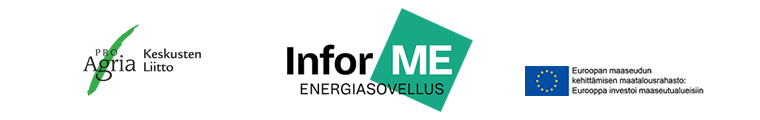
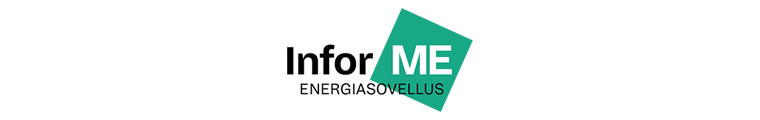
panu.poysti.011117.v1
ulkoasu, js siistiminen

Changed region(s): [[0.6658, 0.55, 0.9382, 0.8], [0.0908, 0.2, 0.2724, 0.8]]

diff --git a/index.html b/index.html
@@ -158,12 +158,10 @@
 					<h4 v-show="heatingovermaximum" class="heatingmaxwarning">Lämmön kulutus saa olla korkeintaan {{ heatingmaximum }} kW, vähennä valittuja kohteita!</h4>		
 					<!-- calculate-button -->
 					<div class="row" style="margin-top: 20px; margin-bottom: 25px;">
-						<div class="col-md-4"></div>
-						<div class="col-md-3">
+						<div class="col-md-12">
 							<button type="button" class="btn btn-primary calculatebtn" id="calcbtn" v-on:click="calculate" data-toggle="collapse"
 							data-target="#resulttab" data-parent="#container">Laske</button>
 						</div>
-						<div class="col-md-5"></div>
 					</div>
 				</div>
 			</div>
@@ -431,9 +429,24 @@
 			</div>
 		</div>
 		<!-- end tuotanto-tab -->
-		
+	
 	</div>
 	<!-- end container wrapper -->
+
+	<!-- footer -->
+	<div class="footer row">
+		<div class="col-md-12">
+			<div class="col-md-4 text-center">
+				<img src="img/maaseutu.jpg" alt="eu" style="width: 100%; margin-top: 40px;" />
+			</div>
+			<div class="col-md-4 text-center">
+				<img src="img/proagria.png" alt="proagria" style="width: 65%; margin-top: 10px;" />
+			</div>
+			<div class="col-md-4 text-center">
+				<img src="img/lamk.png" style="width: 140%; margin-top: 40px;" />
+			</div>
+		</div>
+	</div>
 
 	<!-- scripts -->
 	<!-- template for the modal component -->

diff --git a/js/script.js b/js/script.js
@@ -447,57 +447,6 @@ var vm = new Vue({
 		back: function () {
 			this.buildingcategory--;
 		},
-		increase: function (type) {
-			console.log('inc');
-			this.clear();
-			if (type === 0) {
-				this.houseCounter++;
-				this.buildings.push(0);
-			}
-			else if (type === 1) {
-				this.communityCounter++;
-				this.buildings.push(1);
-			}
-			else if (type === 2) {
-				this.productionCounter++;
-				this.buildings.push(2);
-			}
-			else {
-				this.holidayCounter++;
-				this.buildings.push(3);
-			}
-		},
-		decrease: function (type) {
-			console.log(type);
-			switch (type) {
-				case 0:
-					if (this.houseCounter !== 0) {
-						this.houseCounter--;
-					}
-					break;
-				case 1:
-					if (this.communityCounter !== 0) {
-						this.communityCounter--;
-					}
-					break;
-				case 2:
-					if (this.productionCounter !== 0) {
-						this.productionCounter--;
-					}
-					break;
-				default:
-					if (this.holidayCounter !== 0) {
-						this.holidayCounter--;
-					}
-			}
-			//Clear results
-			this.clear();
-			//Remove building
-			var index = this.buildings.indexOf(type);
-			if (index > -1) {
-				this.buildings.splice(index, 1);
-			}
-		},
 		select: function (event) {
 			var cons = this.consumerlist[0];
 

diff --git a/css/styles.css b/css/styles.css
@@ -178,6 +178,7 @@ html, body {
 
 #buildingselectlist {
 	margin-top: 15px;
+	margin-left: 62px;
 }
 
 #buildingselectlist p::first-letter {
@@ -276,6 +277,7 @@ html, body {
 .calculatebtn {
 	background-color: #0A623F !important;
 	border-color: #0A623F !important;
+
 }
 
 .calculatebtn:hover {
